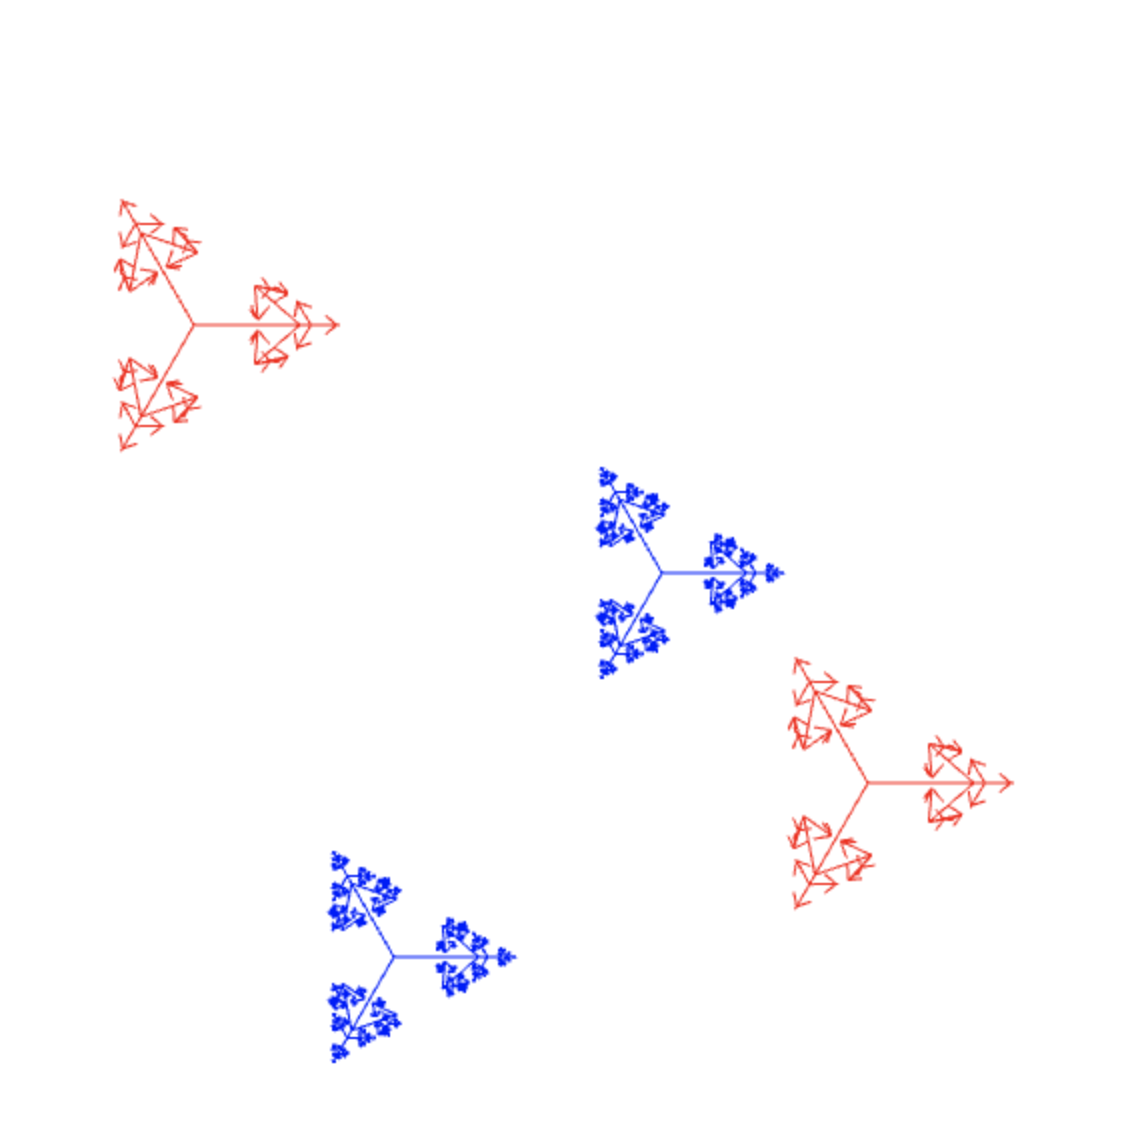
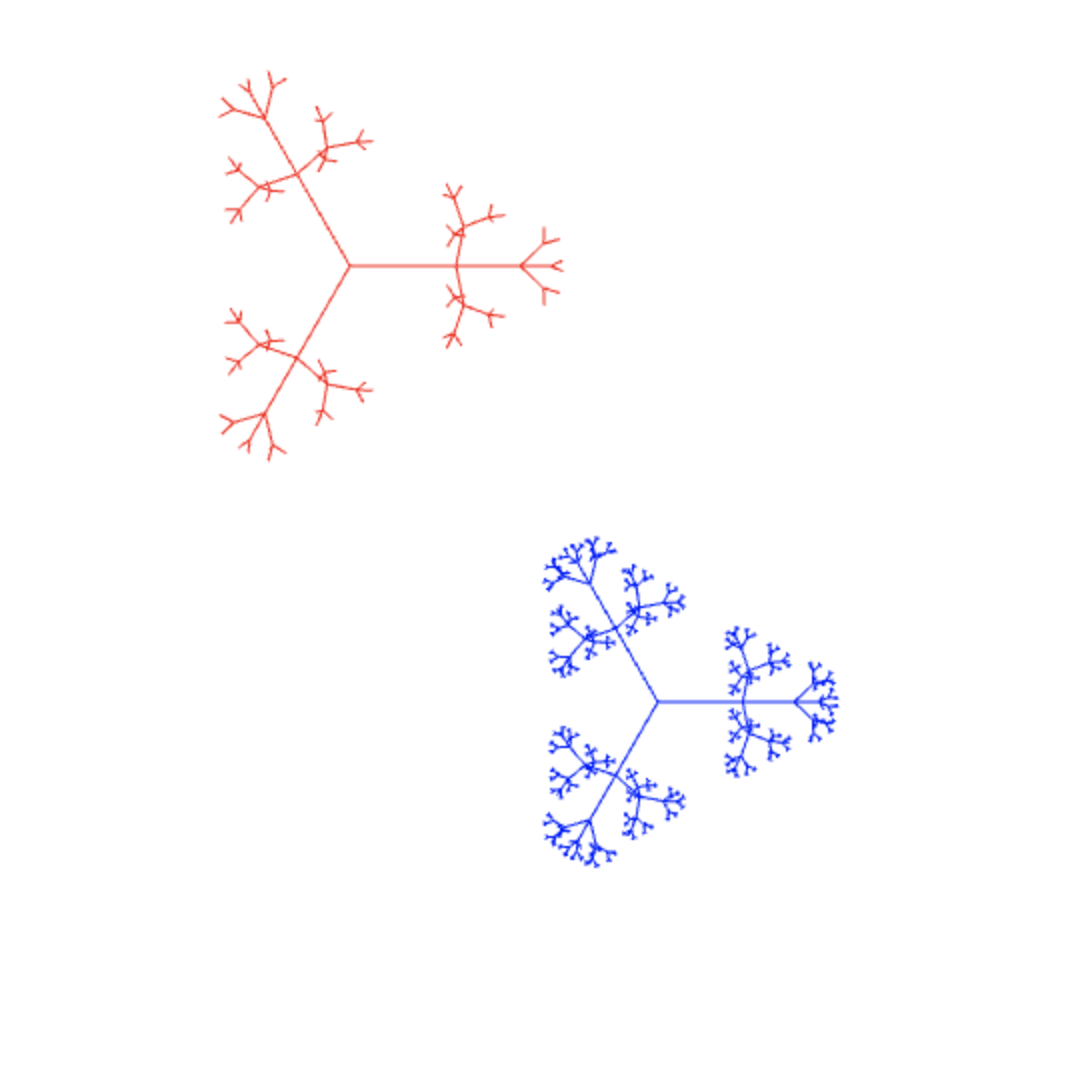
10/13/19

diff --git a/pgm1/tree.js b/pgm1/tree.js
@@ -320,9 +320,9 @@ function generate_point(x0, y0, z0, x1, y1, z1, level_now, l0, alpha, beta) {
     var m22 = Math.pow(axis[2], 2) * (1 - Math.cos(r_angle)) + Math.cos(r_angle);
 
     // Do matrix multiplication:
-    v.push(m00 * x + m10 * y + m20 * z);
-    v.push(m01 * x + m11 * y + m21 * z);
-    v.push(m02 * x + m12 * y + m22 * z);
+    v.push(m00 * x + m01 * y + m02 * z);
+    v.push(m10 * x + m11 * y + m12 * z);
+    v.push(m20 * x + m21 * y + m22 * z);
 
     // Do translation:
     v[0] = v[0] + x1;
